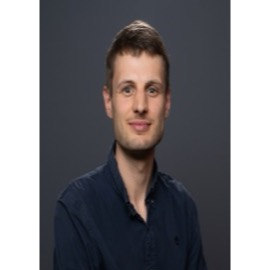
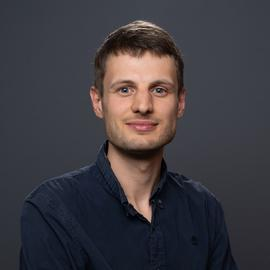
Restore profile photo

diff --git a/index.html b/index.html
@@ -213,7 +213,7 @@
   
   
   
-  <link rel="stylesheet" href="/css/wowchemy.a48c886abf13fb575545cb77f94fdb65.css" />
+  <link rel="stylesheet" href="/css/wowchemy.5e7ccb512ec6f6c5da7a3a79ad636ea5.css" />
 
   
   
@@ -799,7 +799,7 @@
       
       <img class="avatar avatar-square"
            width="270" height="270"
-           src="/authors/admin/avatar.jpg?v=20260527-profile" alt="">
+           src="/authors/admin/avatar.jpg?v=20260527-profile-original" alt="">
       
 
       <div class="portrait-title">

diff --git a/oldprojects/statusproject/index.html b/oldprojects/statusproject/index.html
@@ -213,7 +213,7 @@
   
   
   
-  <link rel="stylesheet" href="/css/wowchemy.a48c886abf13fb575545cb77f94fdb65.css" />
+  <link rel="stylesheet" href="/css/wowchemy.5e7ccb512ec6f6c5da7a3a79ad636ea5.css" />
 
   
   
@@ -808,7 +808,7 @@
   <div class="media author-card content-widget-hr">
     
       
-      <a href="https://www.leonhuetsch.com/"><img class="avatar mr-3 avatar-square" src="/authors/admin/avatar_hu74598a7e17951e97d69a832d17110ed6_13422_270x270_fill_q75_lanczos_center.jpg" alt=""></a>
+      <a href="https://www.leonhuetsch.com/"><img class="avatar mr-3 avatar-square" src="/authors/admin/avatar_hub8103ca3c0f94b92fe6b0170ec47bab3_6157_270x270_fill_q75_lanczos_center.jpg" alt=""></a>
     
 
     <div class="media-body">

diff --git a/research/gpce/index.html b/research/gpce/index.html
@@ -213,7 +213,7 @@
   
   
   
-  <link rel="stylesheet" href="/css/wowchemy.a48c886abf13fb575545cb77f94fdb65.css" />
+  <link rel="stylesheet" href="/css/wowchemy.5e7ccb512ec6f6c5da7a3a79ad636ea5.css" />
 
   
   
@@ -847,7 +847,7 @@
   <div class="media author-card content-widget-hr">
     
       
-      <a href="https://www.leonhuetsch.com/"><img class="avatar mr-3 avatar-square" src="/authors/admin/avatar_hu74598a7e17951e97d69a832d17110ed6_13422_270x270_fill_q75_lanczos_center.jpg" alt=""></a>
+      <a href="https://www.leonhuetsch.com/"><img class="avatar mr-3 avatar-square" src="/authors/admin/avatar_hub8103ca3c0f94b92fe6b0170ec47bab3_6157_270x270_fill_q75_lanczos_center.jpg" alt=""></a>
     
 
     <div class="media-body">

diff --git a/research/healthproject/index.html b/research/healthproject/index.html
@@ -213,7 +213,7 @@
   
   
   
-  <link rel="stylesheet" href="/css/wowchemy.a48c886abf13fb575545cb77f94fdb65.css" />
+  <link rel="stylesheet" href="/css/wowchemy.5e7ccb512ec6f6c5da7a3a79ad636ea5.css" />
 
   
   
@@ -869,7 +869,7 @@
   <div class="media author-card content-widget-hr">
     
       
-      <a href="https://www.leonhuetsch.com/"><img class="avatar mr-3 avatar-square" src="/authors/admin/avatar_hu74598a7e17951e97d69a832d17110ed6_13422_270x270_fill_q75_lanczos_center.jpg" alt=""></a>
+      <a href="https://www.leonhuetsch.com/"><img class="avatar mr-3 avatar-square" src="/authors/admin/avatar_hub8103ca3c0f94b92fe6b0170ec47bab3_6157_270x270_fill_q75_lanczos_center.jpg" alt=""></a>
     
 
     <div class="media-body">

diff --git a/research/lmi_automation/index.html b/research/lmi_automation/index.html
@@ -213,7 +213,7 @@
   
   
   
-  <link rel="stylesheet" href="/css/wowchemy.a48c886abf13fb575545cb77f94fdb65.css" />
+  <link rel="stylesheet" href="/css/wowchemy.5e7ccb512ec6f6c5da7a3a79ad636ea5.css" />
 
   
   
@@ -801,7 +801,7 @@
   <div class="media author-card content-widget-hr">
     
       
-      <a href="https://www.leonhuetsch.com/"><img class="avatar mr-3 avatar-square" src="/authors/admin/avatar_hu74598a7e17951e97d69a832d17110ed6_13422_270x270_fill_q75_lanczos_center.jpg" alt=""></a>
+      <a href="https://www.leonhuetsch.com/"><img class="avatar mr-3 avatar-square" src="/authors/admin/avatar_hub8103ca3c0f94b92fe6b0170ec47bab3_6157_270x270_fill_q75_lanczos_center.jpg" alt=""></a>
     
 
     <div class="media-body">

diff --git a/research/rstar/index.html b/research/rstar/index.html
@@ -213,7 +213,7 @@
   
   
   
-  <link rel="stylesheet" href="/css/wowchemy.a48c886abf13fb575545cb77f94fdb65.css" />
+  <link rel="stylesheet" href="/css/wowchemy.5e7ccb512ec6f6c5da7a3a79ad636ea5.css" />
 
   
   
@@ -881,7 +881,7 @@
   <div class="media author-card content-widget-hr">
     
       
-      <a href="https://www.leonhuetsch.com/"><img class="avatar mr-3 avatar-square" src="/authors/admin/avatar_hu74598a7e17951e97d69a832d17110ed6_13422_270x270_fill_q75_lanczos_center.jpg" alt=""></a>
+      <a href="https://www.leonhuetsch.com/"><img class="avatar mr-3 avatar-square" src="/authors/admin/avatar_hub8103ca3c0f94b92fe6b0170ec47bab3_6157_270x270_fill_q75_lanczos_center.jpg" alt=""></a>
     
 
     <div class="media-body">

diff --git a/404.html b/404.html
@@ -213,7 +213,7 @@
   
   
   
-  <link rel="stylesheet" href="/css/wowchemy.a48c886abf13fb575545cb77f94fdb65.css" />
+  <link rel="stylesheet" href="/css/wowchemy.5e7ccb512ec6f6c5da7a3a79ad636ea5.css" />
 
   
   

diff --git a/categories/index.html b/categories/index.html
@@ -213,7 +213,7 @@
   
   
   
-  <link rel="stylesheet" href="/css/wowchemy.a48c886abf13fb575545cb77f94fdb65.css" />
+  <link rel="stylesheet" href="/css/wowchemy.5e7ccb512ec6f6c5da7a3a79ad636ea5.css" />
 
   
   

diff --git a/oldprojects/index.html b/oldprojects/index.html
@@ -213,7 +213,7 @@
   
   
   
-  <link rel="stylesheet" href="/css/wowchemy.a48c886abf13fb575545cb77f94fdb65.css" />
+  <link rel="stylesheet" href="/css/wowchemy.5e7ccb512ec6f6c5da7a3a79ad636ea5.css" />
 
   
   

diff --git a/publication-type/0/index.html b/publication-type/0/index.html
@@ -213,7 +213,7 @@
   
   
   
-  <link rel="stylesheet" href="/css/wowchemy.a48c886abf13fb575545cb77f94fdb65.css" />
+  <link rel="stylesheet" href="/css/wowchemy.5e7ccb512ec6f6c5da7a3a79ad636ea5.css" />
 
   
   

diff --git a/publication-type/3/index.html b/publication-type/3/index.html
@@ -213,7 +213,7 @@
   
   
   
-  <link rel="stylesheet" href="/css/wowchemy.a48c886abf13fb575545cb77f94fdb65.css" />
+  <link rel="stylesheet" href="/css/wowchemy.5e7ccb512ec6f6c5da7a3a79ad636ea5.css" />
 
   
   

diff --git a/publication_types/index.html b/publication_types/index.html
@@ -213,7 +213,7 @@
   
   
   
-  <link rel="stylesheet" href="/css/wowchemy.a48c886abf13fb575545cb77f94fdb65.css" />
+  <link rel="stylesheet" href="/css/wowchemy.5e7ccb512ec6f6c5da7a3a79ad636ea5.css" />
 
   
   